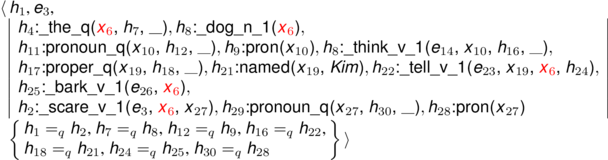
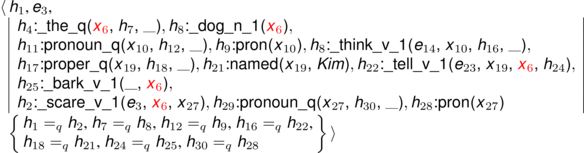
git-svn-id: http://svn.delph-in.net/erg/tags/1214@27122 3df82f5b-d43a-0410-af33-fce91db48ec5

diff --git a/www/esd/essence/the-dog-i-think-kim-told-to-bark-scared-me.tex b/www/esd/essence/the-dog-i-think-kim-told-to-bark-scared-me.tex
@@ -48,7 +48,7 @@
     \srole{ARG2}{\color{red}\svar{x}{6}{}},
     \srole{ARG3}{\svar{h}{24}{}}},\\
   \sep{\sh{25}}{\spred{\_bark\_v\_1\slnkc{28}{32}}}{%
-    \srole{ARG0}{\svar{e}{26}{\svp{SF}{prop-or-ques}, \svp{TENSE}{untensed}, \svp{MOOD}{indicative}, \svp{PROG}{-}, \svp{PERF}{-}}},
+    \srole{ARG0}{},
     \srole{ARG1}{\color{red}\svar{x}{6}{}}},\\
   \sep{\sh{2}}{\spred{\_scare\_v\_1\slnkc{33}{39}}}{%
     \srole{ARG0}{\svar{e}{3}{\svp{SF}{prop}, \svp{TENSE}{past}, \svp{MOOD}{indicative}, \svp{PROG}{-}, \svp{PERF}{-}}},
